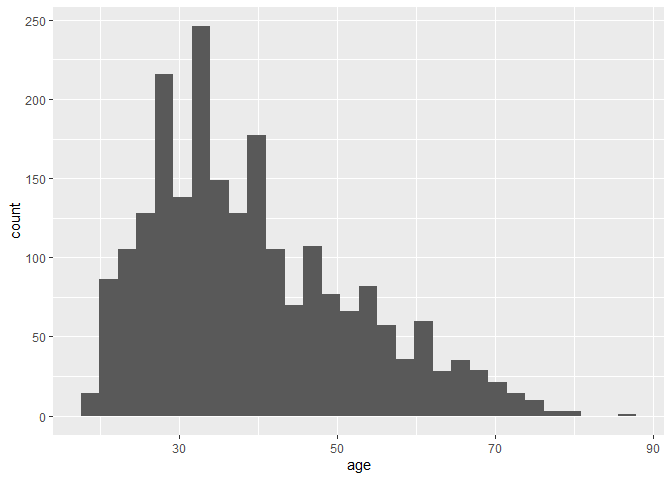
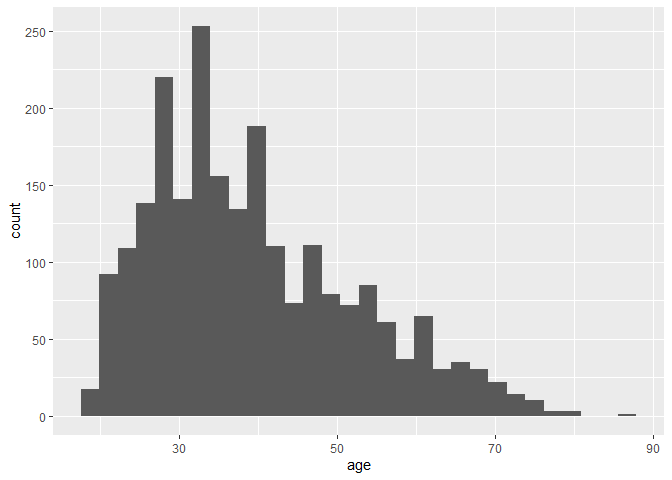
updating data: batch 16, min discriminatory context

diff --git a/04_update_prob/get_qualtrics_data_political_candidates.md b/04_update_prob/get_qualtrics_data_political_candidates.md
@@ -25,7 +25,7 @@ probabilities <- read_csv("../02_output/probabilities.csv")
 probabilities
 ```
 
-    ## # A tibble: 147 × 4
+    ## # A tibble: 154 × 4
     ##    Batch `Embedded data variable` CDF_Threshold `Batch Type`              
     ##    <dbl> <chr>                            <dbl> <chr>                     
     ##  1     0 pi1                              0.125 Warmup                    
@@ -38,7 +38,7 @@ probabilities
     ##  8     1 pi1                              0.071 Iterative Batch Phase: Max
     ##  9     1 pi2                              0.241 Iterative Batch Phase: Max
     ## 10     1 pi3                              0.264 Iterative Batch Phase: Max
-    ## # ℹ 137 more rows
+    ## # ℹ 144 more rows
 
 ``` r
 url <- str_glue("https://{config$datacenter_id}.qualtrics.com")
@@ -53,7 +53,7 @@ survey_name <- "Political Candidates"
 df <- load_qualtrics(survey_name)
 ```
 
-    ##   |                                                                              |                                                                      |   0%  |                                                                              |================                                                      |  23%  |                                                                              |==========================================                            |  60%  |                                                                              |====================================================================  |  98%  |                                                                              |======================================================================| 100%
+    ##   |                                                                              |                                                                      |   0%  |                                                                              |===                                                                   |   4%  |                                                                              |==============================                                        |  43%  |                                                                              |==========================================================            |  83%  |                                                                              |======================================================================| 100%
 
     ## 
     ## ── Column specification ────────────────────────────────────────────────────────
@@ -88,7 +88,7 @@ df %>%
   nrow()
 ```
 
-    ## [1] 2659
+    ## [1] 2759
 
 ``` r
 # drop test data
@@ -101,21 +101,21 @@ df %>%
   nrow()
 ```
 
-    ## [1] 2536
+    ## [1] 2636
 
 ``` r
 # average finished rate
 mean(df$Finished)
 ```
 
-    ## [1] 0.9968454
+    ## [1] 0.9969651
 
 ``` r
 # average time to complete
 mean(df$`Duration (in seconds)`)
 ```
 
-    ## [1] 96.43139
+    ## [1] 96.69879
 
 ``` r
 # compare amount of time spent
@@ -160,7 +160,7 @@ df %>%
     ## 4 2024-01-02 2024-01-02 15:04:43
     ## 5 2024-01-03 2024-01-03 18:00:25
     ## 6 2024-01-04 2024-01-04 23:51:20
-    ## 7 2024-01-05 2024-01-05 11:35:37
+    ## 7 2024-01-05 2024-01-05 12:46:43
 
 ``` r
 df <- df %>%
@@ -188,6 +188,7 @@ df <- df %>%
       StartDate_clean <= ymd_hms("2024-01-04-23-55-00") ~ 13,
       StartDate_clean <= ymd_hms("2024-01-05-10-52-00") ~ 14,
       StartDate_clean <= ymd_hms("2024-01-05-11-50-00") ~ 15,
+      StartDate_clean <= ymd_hms("2024-01-05-13-00-00") ~ 16,
       TRUE ~ NA_integer_
     ),
     batch_type = case_when(
@@ -202,13 +203,14 @@ df <- df %>%
 
 df %>%
   group_by(batch_type, batch_id) %>%
-  summarize(n = n())
+  summarize(n = n()) %>% 
+  print(n = 1e3)
 ```
 
     ## `summarise()` has grouped output by 'batch_type'. You can override using the
     ## `.groups` argument.
 
-    ## # A tibble: 20 × 3
+    ## # A tibble: 21 × 3
     ## # Groups:   batch_type [3]
     ##    batch_type                 batch_id     n
     ##    <chr>                         <dbl> <int>
@@ -231,7 +233,8 @@ df %>%
     ## 17 Iterative Batch Phase: Min       13   101
     ## 18 Iterative Batch Phase: Min       14   100
     ## 19 Iterative Batch Phase: Min       15   100
-    ## 20 Warmup                            0   323
+    ## 20 Iterative Batch Phase: Min       16   100
+    ## 21 Warmup                            0   323
 
 ## Survey Validation
 
@@ -257,9 +260,9 @@ if (!all(unique(df$Status) == "IP Address")) {
 
     ## Warning: Test/spam data included in the analysis file
 
-    ## Number of observations in data: 2235
+    ## Number of observations in data: 2335
     ## Status values in data: IP Address, Spam
-    ## Number of observations left in data: 2234
+    ## Number of observations left in data: 2334
 
 ``` r
 # check embedded data variables match probabilities for all iterative batches
@@ -274,7 +277,7 @@ df %>%
   distinct()
 ```
 
-    ## # A tibble: 20 × 8
+    ## # A tibble: 21 × 8
     ##    batch_id   pi1   pi2   pi3   pi4   pi5   pi6   pi7
     ##       <dbl> <dbl> <dbl> <dbl> <dbl> <dbl> <dbl> <dbl>
     ##  1        0 0.125 0.25  0.375 0.5   0.625 0.75  0.875
@@ -287,16 +290,7 @@ df %>%
     ##  8        3 0.042 0.143 0.369 0.416 0.607 0.833 0.914
     ##  9        4 0.041 0.355 0.476 0.525 0.579 0.78  0.896
     ## 10        5 0.045 0.165 0.303 0.386 0.501 0.876 0.953
-    ## 11        6 0.045 0.123 0.288 0.392 0.474 0.891 0.965
-    ## 12        7 0.022 0.112 0.218 0.572 0.637 0.878 0.963
-    ## 13        8 0.017 0.073 0.193 0.444 0.498 0.869 0.968
-    ## 14        9 0.027 0.093 0.243 0.484 0.547 0.783 0.968
-    ## 15       10 0.052 0.166 0.24  0.497 0.625 0.922 0.966
-    ## 16       11 0.023 0.084 0.135 0.522 0.636 0.947 0.981
-    ## 17       12 0.032 0.088 0.152 0.467 0.637 0.942 0.979
-    ## 18       13 0.046 0.108 0.144 0.455 0.677 0.952 0.978
-    ## 19       14 0.046 0.098 0.158 0.614 0.753 0.946 0.973
-    ## 20       15 0.042 0.09  0.157 0.552 0.683 0.896 0.924
+    ## # ℹ 11 more rows
 
 ``` r
 # check consent means their responses are missing
@@ -321,7 +315,7 @@ df <- df %>%
     ## Warning in check_consent(.): 1 survey respondents who do not consent with
     ## non-missing responses
 
-    ## Warning in check_consent(.): 2233 respondents in the data
+    ## Warning in check_consent(.): 2333 respondents in the data
 
 ``` r
 # check that all completed
@@ -355,7 +349,7 @@ df <- df %>%
     ## Warning in check_completion(.): Dropping 8 survey respondents who did not
     ## finish
 
-    ## Warning in check_completion(.): 2225 respondents in the data
+    ## Warning in check_completion(.): 2325 respondents in the data
 
 ``` r
 df <- df %>%
@@ -369,10 +363,11 @@ df %>%
     select(Commitment_Q1, Commitment_Q2, `Duration (in seconds)`, Finished, batch_id, batch_type)
 ```
 
-    ## # A tibble: 1 × 6
+    ## # A tibble: 2 × 6
     ##   Commitment_Q1           Commitment_Q2 Duration (in seconds…¹ Finished batch_id
     ##   <ord>                   <chr>                          <dbl> <lgl>       <dbl>
     ## 1 I can't promise either… purple                            88 TRUE            0
+    ## 2 I can't promise either… purple                           104 TRUE           16
     ## # ℹ abbreviated name: ¹`Duration (in seconds)`
     ## # ℹ 1 more variable: batch_type <chr>
 
@@ -395,15 +390,15 @@ df <- df %>%
   check_commitment()
 ```
 
-    ## Warning in check_commitment(.): Dropping 1 survey respondents did not pass
+    ## Warning in check_commitment(.): Dropping 2 survey respondents did not pass
     ## commitment check 1
 
-    ## Warning in check_commitment(.): 2224 respondents in the data
+    ## Warning in check_commitment(.): 2323 respondents in the data
 
     ## Warning in check_commitment(.): Dropping 2 survey respondents who did not pass
     ## commitment check 2
 
-    ## Warning in check_commitment(.): 2222 respondents in the data
+    ## Warning in check_commitment(.): 2321 respondents in the data
 
 ``` r
 # check ID is unique again
@@ -433,8 +428,8 @@ if (length(unique(df$`Prolific ID Q`)) != nrow(df)) {
 
     ## Warning: ID is not unique
 
-    ## Number of rows in data: 2222
-    ## # A tibble: 2,222 × 8
+    ## Number of rows in data: 2321
+    ## # A tibble: 2,321 × 8
     ##        n StartDate_clean     EndDate             flag_first_obs
     ##    <int> <dttm>              <dttm>                       <dbl>
     ##  1     2 2024-01-03 12:29:24 2024-01-03 12:31:07              1
@@ -447,10 +442,10 @@ if (length(unique(df$`Prolific ID Q`)) != nrow(df)) {
     ##  8     1 2023-12-26 18:01:49 2023-12-26 18:02:38              1
     ##  9     1 2023-12-26 18:01:49 2023-12-26 18:02:59              1
     ## 10     1 2023-12-26 18:01:54 2023-12-26 18:02:47              1
-    ## # ℹ 2,212 more rows
+    ## # ℹ 2,311 more rows
     ## # ℹ 4 more variables: `Duration (in seconds)` <dbl>, Finished <lgl>,
     ## #   batch_id <dbl>, batch_type <chr>
-    ## Number of rows in data after dropping duplicate ID: 2219
+    ## Number of rows in data after dropping duplicate ID: 2318
 
 ``` r
 stopifnot(length(unique(df$`Prolific ID Q`)) == nrow(df))
@@ -467,7 +462,8 @@ df <- df %>%
 
 df %>%
   group_by(batch_type, context) %>%
-  summarize(n = n())
+  summarize(n = n()) %>%
+  print(n = 1e3)
 ```
 
     ## `summarise()` has grouped output by 'batch_type'. You can override using the
@@ -485,20 +481,34 @@ df %>%
     ##  6 Iterative Batch Phase: Max 6          32
     ##  7 Iterative Batch Phase: Max 7          11
     ##  8 Iterative Batch Phase: Max 8          39
-    ##  9 Iterative Batch Phase: Min 1          96
-    ## 10 Iterative Batch Phase: Min 2         141
-    ## # ℹ 14 more rows
+    ##  9 Iterative Batch Phase: Min 1          99
+    ## 10 Iterative Batch Phase: Min 2         143
+    ## 11 Iterative Batch Phase: Min 3         176
+    ## 12 Iterative Batch Phase: Min 4         434
+    ## 13 Iterative Batch Phase: Min 5         151
+    ## 14 Iterative Batch Phase: Min 6         412
+    ## 15 Iterative Batch Phase: Min 7         127
+    ## 16 Iterative Batch Phase: Min 8          60
+    ## 17 Warmup                     1          33
+    ## 18 Warmup                     2          39
+    ## 19 Warmup                     3          42
+    ## 20 Warmup                     4          28
+    ## 21 Warmup                     5          51
+    ## 22 Warmup                     6          42
+    ## 23 Warmup                     7          37
+    ## 24 Warmup                     8          45
 
 ``` r
 df %>%
   group_by(batch_type, batch_id) %>%
-  summarize(n = n())
+  summarize(n = n()) %>% 
+  print(n = 1e3)
 ```
 
     ## `summarise()` has grouped output by 'batch_type'. You can override using the
     ## `.groups` argument.
 
-    ## # A tibble: 20 × 3
+    ## # A tibble: 21 × 3
     ## # Groups:   batch_type [3]
     ##    batch_type                 batch_id     n
     ##    <chr>                         <dbl> <int>
@@ -521,7 +531,8 @@ df %>%
     ## 17 Iterative Batch Phase: Min       13   101
     ## 18 Iterative Batch Phase: Min       14   100
     ## 19 Iterative Batch Phase: Min       15   100
-    ## 20 Warmup                            0   317
+    ## 20 Iterative Batch Phase: Min       16    99
+    ## 21 Warmup                            0   317
 
 ``` r
 df %>%
@@ -553,7 +564,7 @@ df %>%
   ggplot(aes(context, n)) +
   geom_col() +
   theme_classic() +
-  facet_grid(cols = vars(batch_id)) +
+  facet_wrap(~batch_id) +
   labs(title = "Sample Sizes in Iterative Batch Phase: Min",
        y = "Share of total")
 ```
@@ -652,7 +663,7 @@ df_clean %>%
   verify(!is.na(chose_younger))
 ```
 
-    ## # A tibble: 2,219 × 10
+    ## # A tibble: 2,318 × 10
     ##    chose_younger    Q1    Q2    Q3    Q4    Q5    Q6    Q7    Q8 context
     ##            <dbl> <dbl> <dbl> <dbl> <dbl> <dbl> <dbl> <dbl> <dbl> <ord>  
     ##  1             1    NA    NA    NA    NA    NA    NA     1    NA 4      
@@ -665,7 +676,7 @@ df_clean %>%
     ##  8             1    NA     1    NA    NA    NA    NA    NA    NA 3      
     ##  9             0    NA    NA    NA    NA    NA    NA    NA     0 6      
     ## 10             1    NA    NA    NA    NA    NA     1    NA    NA 6      
-    ## # ℹ 2,209 more rows
+    ## # ℹ 2,308 more rows
 
 ``` r
 df_clean %>%
@@ -680,14 +691,14 @@ df_clean %>%
     ## # A tibble: 8 × 4
     ##   context     n resp1 resp0
     ##   <ord>   <int> <dbl> <int>
-    ## 1 1         141   110    31
-    ## 2 2         220   163    57
-    ## 3 3         218   163    55
-    ## 4 4         435   304   131
-    ## 5 5         449   344   105
-    ## 6 6         444   306   138
-    ## 7 7         174   133    41
-    ## 8 8         138   105    33
+    ## 1 1         144   112    32
+    ## 2 2         222   165    57
+    ## 3 3         223   168    55
+    ## 4 4         471   331   140
+    ## 5 5         453   345   108
+    ## 6 6         486   335   151
+    ## 7 7         175   134    41
+    ## 8 8         144   110    34
 
 ``` r
 # identify context desc
@@ -756,14 +767,14 @@ df_clean %>%
     ## # A tibble: 8 × 3
     ##   race                                  n     per
     ##   <chr>                             <int>   <dbl>
-    ## 1 White                              1601 0.721  
-    ## 2 Black or African American           220 0.0991 
-    ## 3 Asian                               201 0.0906 
-    ## 4 Multiracial                         110 0.0496 
-    ## 5 Other                                42 0.0189 
-    ## 6 Prefer not to disclose               26 0.0117 
-    ## 7 American Indian or Alaskan Native    12 0.00541
-    ## 8 Native Hawaiian                       7 0.00315
+    ## 1 White                              1667 0.719  
+    ## 2 Black or African American           232 0.100  
+    ## 3 Asian                               213 0.0919 
+    ## 4 Multiracial                         116 0.0500 
+    ## 5 Other                                44 0.0190 
+    ## 6 Prefer not to disclose               26 0.0112 
+    ## 7 American Indian or Alaskan Native    13 0.00561
+    ## 8 Native Hawaiian                       7 0.00302
 
 ``` r
 df_clean %>%
@@ -773,7 +784,7 @@ df_clean %>%
 
     ## `stat_bin()` using `bins = 30`. Pick better value with `binwidth`.
 
-    ## Warning: Removed 28 rows containing non-finite values (`stat_bin()`).
+    ## Warning: Removed 29 rows containing non-finite values (`stat_bin()`).
 
 ![](get_qualtrics_data_political_candidates_files/figure-gfm/demog-1.png)<!-- -->
 
@@ -786,8 +797,8 @@ df_clean %>%
     ## # A tibble: 2 × 2
     ##   female count
     ##   <lgl>  <int>
-    ## 1 FALSE   1185
-    ## 2 TRUE    1034
+    ## 1 FALSE   1232
+    ## 2 TRUE    1086
 
 ``` r
 df_clean %>%
@@ -800,7 +811,7 @@ df_clean %>%
     ## # A tibble: 1 × 2
     ##   count_hispanic per_hispanic
     ##            <int>        <dbl>
-    ## 1            208       0.0937
+    ## 1            216       0.0932
 
 ## Clean Data Validation
 
